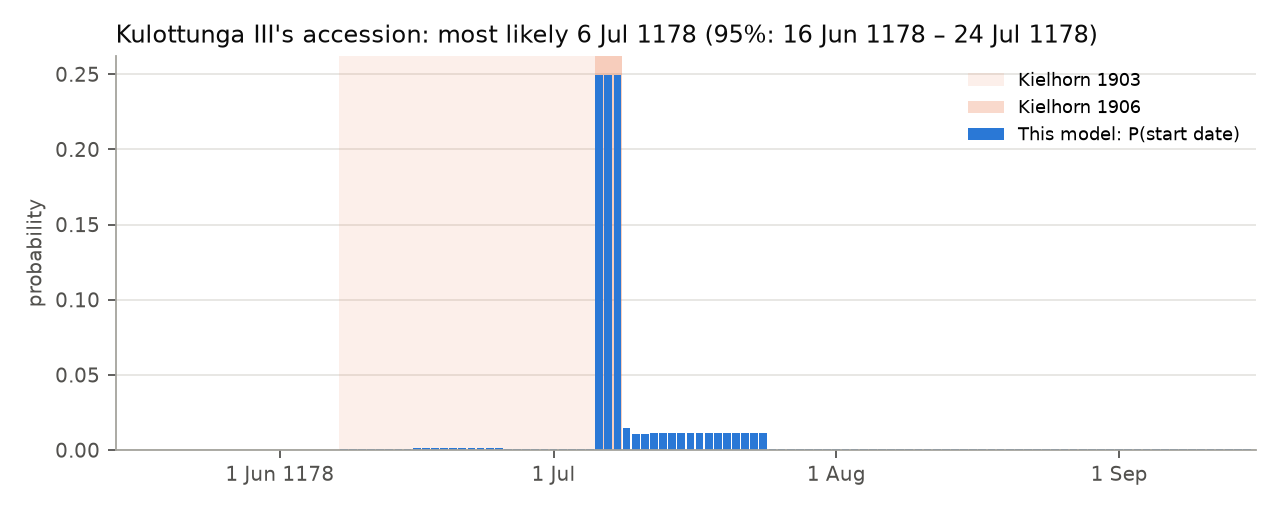
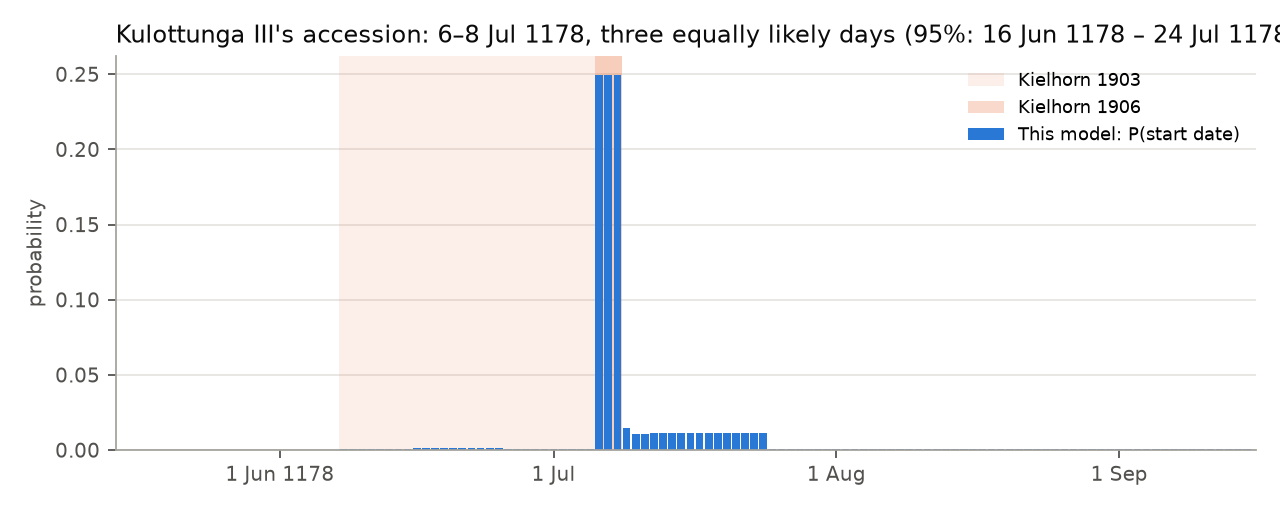
final update

Changed region(s): [[0.3438, 0.0312, 1.0, 0.0938]]

diff --git a/streamlit_app.py b/streamlit_app.py
@@ -135,7 +135,7 @@ def verdict(mode: str = "day"):
                      "verdict": r["kielhorn_verdict"], "kielhorn_date": r["kielhorn_date"] or "–",
                      "p": round(x["p_miscarved"], 3), "date": best["date"], "p_date": round(best["prob"], 2),
                      "wrong": best["wrong"]})
-    return {"acc_n": post.acc_n, "acc_p": post.accession, "votes": votes, "mode": post.mode(),
+    return {"acc_n": post.acc_n, "acc_p": post.accession, "votes": votes, "top": post.top_days(),
             "i50": post.interval(0.5), "i95": post.interval(0.95), "eps": float(post.eps @ post.eps_grid),
             "log_ev": post.log_evidence, "table": pd.DataFrame(rows).sort_values("no"), "alts": alts}
 
@@ -162,6 +162,12 @@ def short_range(a, b):
     if (ya, ma) == (yb, mb):
         return f"{da}–{db} {MONTHS[ma-1]}"
     return f"{da} {MONTHS[ma-1]} – {db} {MONTHS[mb-1]}"
+
+
+def top_label(D):
+    """'6–8 Jul 1178': the run of days tied for the highest probability."""
+    a, b, _ = D["top"]
+    return f"{short_range(a, b)} {ymd(b)[0]}" if a != b else nice(a)
 
 
 def jdate(n):
@@ -266,7 +272,7 @@ with left:
                 '12th and 13th centuries to turn those clues back into dates, and works out when King Kulottunga III '
                 'took the throne, even though some of the stone carvers made mistakes.</div>', unsafe_allow_html=True)
     st.markdown(f"""<div class="chips">
-      <div class="chip"><b>{nice(det['mode'])}</b><small>when Kulottunga III most likely became king</small></div>
+      <div class="chip"><b>{top_label(det)}</b><small>when Kulottunga III became king: three equally likely days</small></div>
       <div class="chip"><b>24 stones</b><small>dated inscriptions decoded, from Nellore to Vedaranyam</small></div>
       <div class="chip"><b>5 mistakes</b><small>found in the carvings: the same five a scholar found by hand in 1900</small></div>
       <div class="chip"><b>4 that weren't</b><small>old "mistakes" that turn out to follow a consistent rule</small></div>
@@ -387,7 +393,8 @@ with t_story:
                  "Each correctly carved inscription says “the reign began within this particular 12-month window”. "
                  "Line up all 24 windows and look for the start date that fits the most stones.")
             card("The answer", f"18 of the 24 stones agree with no errors at all on a start date of 6–8 July 1178. "
-                               f"Weighing all 24, mistakes included:", big=f"{nice(D['mode'])}", kind="gold")
+                               f"Weighing all 24, mistakes included, those three days come out equally likely, "
+                               f"{D['top'][2]:.0%} together:", big=top_label(D), kind="gold")
             st.markdown(f'<p class="note">Very likely between {short_range(*D["i50"])} 1178; almost certainly between '
                         f'{short_range(*D["i95"])} 1178. Kielhorn, after a decade of work on these dates (1906): '
                         f'“about 6–8 July 1178”.</p>', unsafe_allow_html=True)
@@ -533,10 +540,10 @@ with t_try:
 with t_verdict:
     D = det
     st.markdown("#### When did Kulottunga III become king?")
-    st.markdown(f'<p class="lede" style="max-width:none">Most likely on <b style="color:#e8b04a">{nice(D["mode"])}</b>. '
-                f'There is a 50% chance it was between {short_range(*D["i50"])} 1178, and a 95% chance between '
-                f'{short_range(*D["i95"])} 1178. Franz Kielhorn concluded “about 6–8 July 1178” in 1906.</p>',
-                unsafe_allow_html=True)
+    st.markdown(f'<p class="lede" style="max-width:none">Between <b style="color:#e8b04a">{top_label(D)}</b>. '
+                f'Those three days are equally likely, {D["top"][2]:.0%} together; the evidence cannot separate them. '
+                f'There is a 95% chance the reign began between {short_range(*D["i95"])} 1178. '
+                f'Franz Kielhorn concluded “about 6–8 July 1178” in 1906.</p>', unsafe_allow_html=True)
     zoom = (D["acc_n"] >= astro.day_number(1178, 5, 15)) & (D["acc_n"] <= astro.day_number(1178, 9, 15))
     k3 = tuple(jdate(astro.day_number(*d)) for d in K1903)
     k6 = tuple(jdate(astro.day_number(*d)) for d in K1906)
@@ -570,7 +577,7 @@ with t_verdict:
         K = verdict("kielhorn")
         bf = (D["log_ev"] - K["log_ev"]) / np.log(10)
         m1, m2, m3 = st.columns(3)
-        m1.metric("Most likely start", nice(K["mode"]))
+        m1.metric("Top days", top_label(K))
         m2.metric("50% interval", short_range(*K["i50"]))
         m3.metric("Inscriptions flagged", int((K["table"]["p"] > 0.5).sum()))
         st.markdown(f'<p class="note">Under Kielhorn\'s sunrise rule the model needs 11 faulty stones instead of 6, '
@@ -661,7 +668,7 @@ reign, and every clue was carved either correctly or wrongly. Wrong clues tend t
 fortnights, a neighbouring star group, a slipped digit). Adding up the evidence from all 24 stones gives a probability
 for every start date, the carvers' error rate, and the chance each stone was miscarved. This is Bayesian inference.
 
-**Checks.** 53 automated tests; the weekdays of 38 dated Chola inscriptions; a modern almanac matched to the minute;
+**Checks.** 54 automated tests; the weekdays of 38 dated Chola inscriptions; a modern almanac matched to the minute;
 the answer barely moves when the assumptions change.
 """)
     with b:

diff --git a/scripts/detective.py b/scripts/detective.py
@@ -43,6 +43,15 @@ def nice(n):
     return f"{d} {['Jan','Feb','Mar','Apr','May','Jun','Jul','Aug','Sep','Oct','Nov','Dec'][m-1]} {y}"
 
 
+def top_range(post):
+    """'6–8 Jul 1178 (75%)': days tied for the highest probability, and their combined probability."""
+    a, b, mass = post.top_days()
+    (ya, ma, da), (yb, mb, db) = astro.date_from_day_number(a), astro.date_from_day_number(b)
+    months = ['Jan','Feb','Mar','Apr','May','Jun','Jul','Aug','Sep','Oct','Nov','Dec']
+    span = f"{da}–{db} {months[mb-1]} {yb}" if (ya, ma) == (yb, mb) else f"{nice(a)} – {nice(b)}"
+    return span if a != b else nice(a), mass
+
+
 def setup():
     df = dataset.load("kulottunga3")
     a0, a1 = (astro.day_number(*d) for d in GRID)
@@ -112,7 +121,7 @@ def main():
         flagged = [x["id"] for x in (dt.explain(cal, ev, p2, acc_idx) for ev in e2) if x["p_miscarved"] > 0.5]
         a, b = p2.interval(0.95)
         c, d = p2.interval(0.5)
-        rob.append({"assumption": name, "most likely": nice(p2.mode()),
+        rob.append({"assumption": name, "top days (tied)": f"{top_range(p2)[0]} ({top_range(p2)[1]:.0%})",
                     "50% interval": f"{nice(c)} – {nice(d)}", "95% interval": f"{nice(a)} – {nice(b)}",
                     "eps (mean)": round(float(p2.eps @ p2.eps_grid), 3),
                     "log10 Bayes factor vs main": round((p2.log_evidence - post.log_evidence) / np.log(10), 1),
@@ -150,7 +159,7 @@ def main():
     ax.set_xticks(ticks, ["1 Jun 1178", "1 Jul", "1 Aug", "1 Sep"])
     ax.set_xlim(-1, z1 - z0 + 1)
     ax.set_ylabel("probability", color=MUTED, fontsize=9)
-    ax.set_title(f"Kulottunga III's accession: most likely {nice(post.mode())} "
+    ax.set_title(f"Kulottunga III's accession: {top_range(post)[0]}, three equally likely days "
                  f"(95%: {nice(lo95)} – {nice(hi95)})", loc="left", fontsize=11, color=INK)
     ax.legend(frameon=False, fontsize=8, loc="upper right")
     style(ax)
@@ -193,7 +202,8 @@ def main():
                 f"**{nice(top.min())} – {nice(top.max())}** (one unbroken run). "
                 f"Kielhorn (EI VIII, 1906): about 6–8 July 1178.\n\n![votes](votes.png)\n\n")
         f.write("## 2. Bayesian model\n\n")
-        f.write(f"- Most likely accession: **{nice(post.mode())}**\n")
+        f.write(f"- Top days: **{top_range(post)[0]}**, equally likely (each about a quarter, "
+                f"{top_range(post)[1]:.0%} together); the evidence cannot separate them\n")
         f.write(f"- 50% credible interval: **{nice(lo50)} – {nice(hi50)}**\n")
         f.write(f"- 95% credible interval: **{nice(lo95)} – {nice(hi95)}**\n")
         f.write(f"- Estimated error rate per carved clue: **{eps_mean:.3f}** (about 1 in {round(1/eps_mean)})\n\n")

diff --git a/chola/detective.py b/chola/detective.py
@@ -194,6 +194,17 @@ class Posterior:
     def mode(self) -> int:
         return int(self.acc_n[np.argmax(self.accession)])
 
+    def top_days(self, rel: float = 0.9) -> tuple:
+        """
+        The run of days whose probability is within `rel` of the maximum, as
+        (first day, last day, combined probability). For Kulottunga III, 6, 7 and
+        8 July 1178 are tied to within 0.03 percentage points, so naming a single
+        "most likely" day would be reporting rounding noise.
+        """
+        pa = self.accession
+        keep = np.nonzero(pa >= rel * pa.max())[0]
+        return int(self.acc_n[keep.min()]), int(self.acc_n[keep.max()]), float(pa[keep].sum())
+
 
 def fit(cal: pd.DataFrame, evs: list, acc_idx: np.ndarray,
         eps_grid=np.linspace(0.01, 0.30, 30), eps_year: float = 0.05) -> Posterior:

diff --git a/tests/test_detective.py b/tests/test_detective.py
@@ -35,6 +35,14 @@ def test_posterior_50pct_inside_kielhorn_window(model):
     assert lo >= astro.day_number(1178, 7, 6) and hi <= astro.day_number(1178, 7, 8)
 
 
+def test_top_days_are_6_to_8_july(model):
+    # 6, 7 and 8 July 1178 are tied; reporting one of them alone would be rounding noise.
+    _, _, post, _ = model
+    a, b, mass = post.top_days()
+    assert (a, b) == (astro.day_number(1178, 7, 6), astro.day_number(1178, 7, 8))
+    assert 0.7 < mass < 0.8
+
+
 def test_flags_exactly_kielhorns_genuine_errors(model):
     cal, evs, post, acc_idx = model
     res = {ev.id: dt.explain(cal, ev, post, acc_idx) for ev in evs}

diff --git a/results/detective.md b/results/detective.md
@@ -10,7 +10,7 @@ The best start dates explain **18 of 24** inscriptions with no error: **6 Jul 11
 
 ## 2. Bayesian model
 
-- Most likely accession: **6 Jul 1178**
+- Top days: **6–8 Jul 1178**, equally likely (each about a quarter, 75% together); the evidence cannot separate them
 - 50% credible interval: **6 Jul 1178 – 8 Jul 1178**
 - 95% credible interval: **16 Jun 1178 – 24 Jul 1178**
 - Estimated error rate per carved clue: **0.090** (about 1 in 11)
@@ -50,11 +50,11 @@ The best start dates explain **18 of 24** inscriptions with no error: **6 Jul 11
 
 ## 3. Robustness
 
-| assumption                                                           | most likely   | 50% interval              | 95% interval              |   eps (mean) |   log10 Bayes factor vs main | flagged (P>0.5)                                                   |
-|:---------------------------------------------------------------------|:--------------|:--------------------------|:--------------------------|-------------:|-----------------------------:|:------------------------------------------------------------------|
-| Main: during-day tithi/nakshatra, structured errors, year error 5%   | 6 Jul 1178    | 6 Jul 1178 – 8 Jul 1178   | 16 Jun 1178 – 24 Jul 1178 |        0.09  |                          0   | 16, 24, 31, 60, 90, 111                                           |
-| Kielhorn's practice: tithi at sunrise, nakshatra any time in the day | 17 Jun 1178   | 11 Jun 1178 – 26 Jun 1178 | 8 Jun 1178 – 8 Jul 1178   |        0.139 |                         -6.4 | 16, 24, 31, 60, 90, 93, 108, 109, 111, 113, 114                   |
-| Sunrise-only tithi and nakshatra                                     | 7 Jul 1178    | 17 Jun 1178 – 8 Jul 1178  | 8 Jun 1178 – 11 Sep 1178  |        0.221 |                        -16.4 | 16, 23, 24, 31, 60, 90, 91, 93, 108, 109, 110, 111, 112, 113, 114 |
-| Every wrong value equally likely (no error structure)                | 6 Jul 1178    | 6 Jul 1178 – 7 Jul 1178   | 6 Jul 1178 – 11 Sep 1178  |        0.092 |                         -1   | 16, 24, 31, 60, 90, 111                                           |
-| Regnal-year error 2%                                                 | 7 Jul 1178    | 6 Jul 1178 – 7 Jul 1178   | 6 Jul 1178 – 24 Jul 1178  |        0.093 |                          0.1 | 16, 24, 31, 60, 90, 111                                           |
-| Regnal-year error 10%                                                | 6 Jul 1178    | 6 Jul 1178 – 8 Jul 1178   | 8 Jun 1178 – 11 Sep 1178  |        0.088 |                         -0.2 | 16, 24, 31, 60, 90, 111                                           |
+| assumption                                                           | top days (tied)      | 50% interval              | 95% interval              |   eps (mean) |   log10 Bayes factor vs main | flagged (P>0.5)                                                   |
+|:---------------------------------------------------------------------|:---------------------|:--------------------------|:--------------------------|-------------:|-----------------------------:|:------------------------------------------------------------------|
+| Main: during-day tithi/nakshatra, structured errors, year error 5%   | 6–8 Jul 1178 (75%)   | 6 Jul 1178 – 8 Jul 1178   | 16 Jun 1178 – 24 Jul 1178 |        0.09  |                          0   | 16, 24, 31, 60, 90, 111                                           |
+| Kielhorn's practice: tithi at sunrise, nakshatra any time in the day | 17–26 Jun 1178 (46%) | 11 Jun 1178 – 26 Jun 1178 | 8 Jun 1178 – 8 Jul 1178   |        0.139 |                         -6.4 | 16, 24, 31, 60, 90, 93, 108, 109, 111, 113, 114                   |
+| Sunrise-only tithi and nakshatra                                     | 7–8 Jul 1178 (12%)   | 17 Jun 1178 – 8 Jul 1178  | 8 Jun 1178 – 11 Sep 1178  |        0.221 |                        -16.4 | 16, 23, 24, 31, 60, 90, 91, 93, 108, 109, 110, 111, 112, 113, 114 |
+| Every wrong value equally likely (no error structure)                | 6–8 Jul 1178 (76%)   | 6 Jul 1178 – 7 Jul 1178   | 6 Jul 1178 – 11 Sep 1178  |        0.092 |                         -1   | 16, 24, 31, 60, 90, 111                                           |
+| Regnal-year error 2%                                                 | 6–8 Jul 1178 (83%)   | 6 Jul 1178 – 7 Jul 1178   | 6 Jul 1178 – 24 Jul 1178  |        0.093 |                          0.1 | 16, 24, 31, 60, 90, 111                                           |
+| Regnal-year error 10%                                                | 6–8 Jul 1178 (62%)   | 6 Jul 1178 – 8 Jul 1178   | 8 Jun 1178 – 11 Sep 1178  |        0.088 |                         -0.2 | 16, 24, 31, 60, 90, 111                                           |

diff --git a/README.md b/README.md
@@ -27,8 +27,9 @@ This project rebuilds that work computationally, for one king, Kulottunga III:
 
 ## Results
 
-- **Kulottunga III most likely came to the throne on 6 July 1178** (50% credible interval 6–8 July; 95% interval
-  16 June – 24 July 1178). This independently reproduces Kielhorn's final conclusion (*EI* VIII, 1906: "about 6–8 July 1178").
+- **Kulottunga III came to the throne between 6 and 8 July 1178.** Those three days are equally likely (about 25% each,
+  75% together; the evidence cannot separate them), and the 95% credible interval is 16 June – 24 July 1178. This
+  independently reproduces Kielhorn's final conclusion (*EI* VIII, 1906: "about 6–8 July 1178").
 - The solver reproduces **all 14** dates Kielhorn judged correct; each is the only matching day in its regnal year.
 - The model flags as miscarved **exactly** the five inscriptions whose errors Kielhorn diagnosed by hand, and names the
   same error each time: two swapped fortnights, a wrong nakshatra, a 4 carved for a 14, and a 15 for a 25 together with
@@ -72,15 +73,15 @@ likely true date. A simpler "votes" method (how many inscriptions each *A* expla
 
 **Robustness.** The answer barely moves when the assumptions change:
 
-| Assumption | Most likely | 50% interval | Flagged as miscarved |
+| Assumption | Top days (tied) | 95% interval | Flagged as miscarved |
 |---|---|---|---|
-| Main model | 6 Jul 1178 | 6–8 Jul | 16, 24, 31, 60, 90, 111 |
-| Every wrong value equally likely | 6 Jul | 6–7 Jul | same |
-| Regnal-year error 2% / 10% | 7 Jul / 6 Jul | 6–7 Jul / 6–8 Jul | same |
-| Kielhorn's practice (tithi at sunrise) | 17 Jun | 11–26 Jun | + 93, 108, 109, 113, 114 (Bayes factor 10^−6.4) |
+| Main model | 6–8 Jul 1178 (75%) | 16 Jun – 24 Jul | 16, 24, 31, 60, 90, 111 |
+| Every wrong value equally likely | 6–8 Jul (76%) | 6 Jul – 11 Sep | same |
+| Regnal-year error 2% / 10% | 6–8 Jul (83% / 62%) | 6 Jul – 24 Jul / 8 Jun – 11 Sep | same |
+| Kielhorn's practice (tithi at sunrise) | 17–26 Jun (46%) | 8 Jun – 8 Jul | + 93, 108, 109, 113, 114 (Bayes factor 10^−6.4) |
 
 **Checks.** Weekdays of 38/38 dated Chola inscriptions in Kielhorn's summary list (*EI* VII pp. 6–8); a modern tithi
-boundary matched to a published panchang to the minute; 53 automated tests, including the app.
+boundary matched to a published panchang to the minute; 54 automated tests, including the app.
 
 ## The app
 
@@ -110,7 +111,7 @@ scripts/
   validate.py         solver vs Kielhorn -> results/validation.md
   detective.py        accession model, robustness, charts -> results/detective.md
 streamlit_app.py    the app (with app/visuals.py)
-tests/              53 tests
+tests/              54 tests
 examples/no60.py    the worked example
 ```
 
@@ -119,7 +120,7 @@ examples/no60.py    the worked example
 ```bash
 python3 -m venv .venv && source .venv/bin/activate
 pip install -r requirements.txt
-pytest                         # 53 tests
+pytest                         # 54 tests
 python scripts/validate.py     # dataset vs Kielhorn
 python scripts/detective.py    # accession model, charts, robustness (~30 s)
 streamlit run streamlit_app.py # the app
